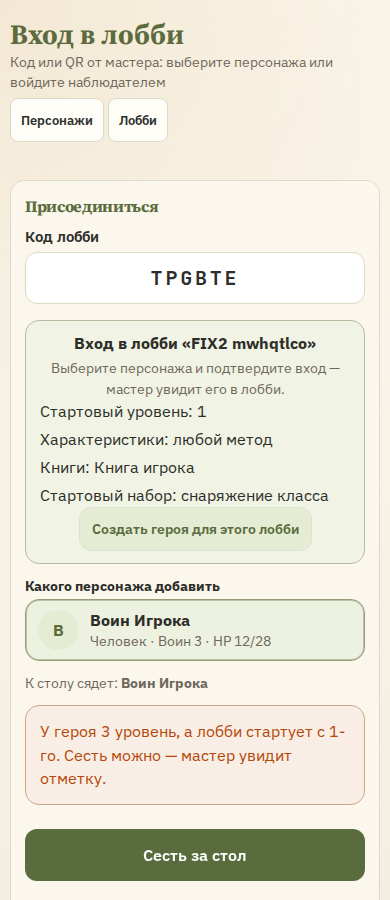
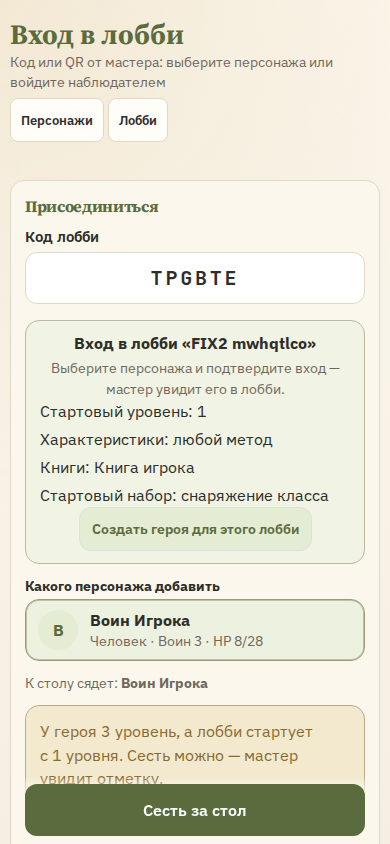
fix(lobby): sand warn on /join, «Опыт» in rewards bonus field
Песочная плашка уровня с неразрывными пробелами; подпись XP → Опыт.

Changed region(s): [[0.0615, 0.2156, 0.9538, 1.0], [0.0308, 0.0, 0.8615, 0.1848]]

diff --git a/frontend/src/features/lobby/lobbyFixJoinLevel.selfcheck.ts b/frontend/src/features/lobby/lobbyFixJoinLevel.selfcheck.ts
@@ -13,12 +13,17 @@ const joinPage = readFileSync(join(root, 'src/pages/JoinLobbyPage.tsx'), 'utf8')
 assert.match(joinPage, /levelMismatch/)
 assert.match(joinPage, /startLevel/)
 assert.match(joinPage, /join-flow__level-warn/)
-assert.match(joinPage, /лобби стартует/)
+assert.match(joinPage, /лобби стартует с\\u00a0/)
+assert.match(joinPage, /уровня\. Сесть можно/)
+assert.doesNotMatch(joinPage, /-го/)
 assert.match(joinPage, /tone="warn"/)
 assert.match(joinPage, /hideMoreMenu/)
 const warnBlock = joinPage.match(/join-flow__level-warn[\s\S]{0,400}/)?.[0] ?? ''
 assert.match(warnBlock, /tone="warn"/)
 assert.doesNotMatch(warnBlock, /tone="danger"/)
+const joinCss = readFileSync(join(root, 'src/styles/02-cards-join-lobby.css'), 'utf8')
+assert.match(joinCss, /\.join-flow__level-warn[\s\S]*--abil-con-soft/)
+assert.doesNotMatch(joinCss, /\.join-flow__level-warn[\s\S]{0,120}--danger/)
 assert.doesNotMatch(joinPage, /selected\.level\s*=/)
 assert.doesNotMatch(joinPage, /patchCharacter|updateCharacter|setLevel/)
 

diff --git a/frontend/src/pages/JoinLobbyPage.tsx b/frontend/src/pages/JoinLobbyPage.tsx
@@ -356,8 +356,7 @@ export function JoinLobbyPage() {
                   {levelMismatch && codeReady && !startMismatch ? (
                     <Panel className="join-flow__level-warn">
                       <Text tone="warn" role="status">
-                        У героя {selected!.level} уровень, а лобби стартует с{' '}
-                        {startLevel}-го. Сесть можно — мастер увидит отметку.
+                        {`У героя ${selected!.level}\u00a0уровень, а лобби стартует с\u00a0${startLevel}\u00a0уровня. Сесть можно — мастер увидит отметку.`}
                       </Text>
                     </Panel>
                   ) : null}

diff --git a/frontend/src/styles/02-cards-join-lobby.css b/frontend/src/styles/02-cards-join-lobby.css
@@ -21,9 +21,14 @@
   display: none;
 }
 
+/* Warn-плашка: песочный/янтарный (не danger-розовый) */
 .join-flow__level-warn {
-  border-color: color-mix(in srgb, var(--warn) 35%, var(--line));
-  background: color-mix(in srgb, var(--warn) 8%, var(--card));
+  border-color: color-mix(in srgb, var(--abil-con) 42%, var(--line));
+  background: color-mix(in srgb, var(--abil-con-soft) 88%, var(--card));
+}
+
+.join-flow__level-warn .ui-text--warn {
+  color: var(--abil-con);
 }
 
 .join-thumb-cta {

diff --git a/frontend/src/features/lobby/RewardsDialog.tsx b/frontend/src/features/lobby/RewardsDialog.tsx
@@ -648,7 +648,7 @@ export function RewardsDialog({
                     ))}
                   </Select>
                 </Field>
-                <Field label="XP">
+                <Field label="Опыт">
                   <NumberInput
                     value={bonusAmount}
                     min={1}

diff --git a/docs/audit/LOBBY-FIX.md b/docs/audit/LOBBY-FIX.md
@@ -35,6 +35,15 @@
 
 ---
 
+## Доправка fix3 (мелочи после fix2)
+
+| # | Правка | Кадр до → после | md5 до / после |
+|---|--------|-----------------|----------------|
+| 1 | `/join` warn: песочный (`--abil-con-soft`), текст «с N уровня» с `\u00a0` | `p-join-warn-fix3-before-390` → `p-join-warn-after-390` | `d59fcc9c…` / `1d5dcadb…` |
+| 2 | Награды: подпись поля «XP» → «Опыт» | `m-rewards-xp-label-before-390` → `m-rewards-xp-label-after-390` | `c3d8a8ad…` / `03216764…` |
+
+---
+
 ## Доправка fix2 (после просмотра кадров)
 
 | # | Правка | Статус |
